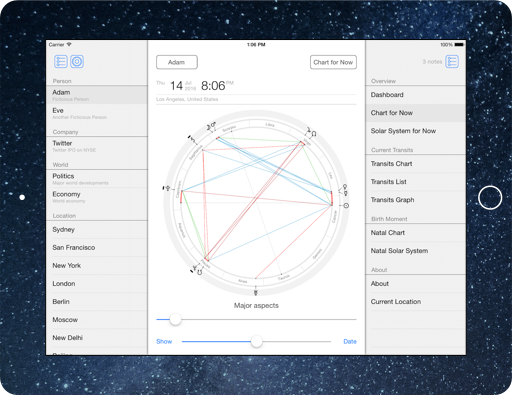
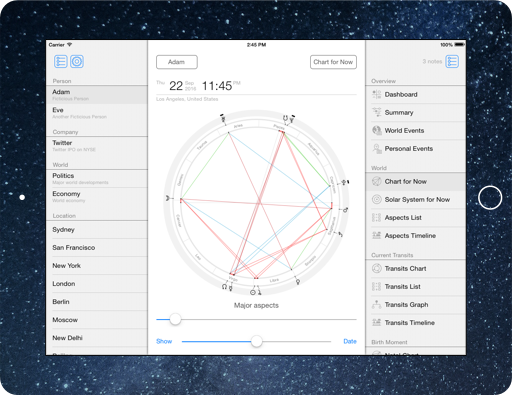
Updated for version 1.3

diff --git a/p01 time-nomad.md b/p01 time-nomad.md
@@ -9,7 +9,7 @@ appname: time-nomad/id1092841332?mt=8
 
 # Time Nomad
 
-#### Explore astrology in clarity and style. Track your transits in real time.
+#### Explore astrology in clarity and style. Track transits in real time. See upcoming changes.
 
 Stay up to date with your astrological transits, phases of the Sun and the Moon, explore your natal chart and learn meanings of planetary forces and aspects. Information is presented in unadorned, concise yet expressive manner to help seeing a bigger picture.
 
@@ -17,6 +17,7 @@ Stay up to date with your astrological transits, phases of the Sun and the Moon,
 * Chart for here & now
 * Chart of transits
 * Natal chart
+* Events timeline 
 * Explanation of aspects and forces
 * Library of trackers
 
@@ -42,6 +43,7 @@ General overview:
 * Sun rise & set, day duration
 * Progression of the sun from equinox to equinox
 * Phase of the Moon
+* Retrograde planets
 
 Person specific information:
 
@@ -59,6 +61,19 @@ Real time chart that shows what is now and what is coming up:
 * Configurable view
 * Time scrolling by specified interval
 * Easy aspects filtering
+
+### Aspect list for the chart 
+
+- - -
+
+![Time Nomad chart for now](/images/time-nomad_aspects-list.png "Time Nomad list of chart aspects")
+
+Real time chart that shows what is now and what is coming up:
+
+* Select aspect majority
+* Group by aspects or planets 
+* View cardinal points 
+* Raw angles view option 
 
 ### Solar System view
 
@@ -119,6 +134,45 @@ Natal chart, as well as any other chart, can be presented in a number of ways:
 * Include or exclude cardinal points
 * Tropical or sidereal zodiac wheel
 * Houses wheel
+
+### Aspects timeline
+
+- - -
+
+![Time Nomad aspects timeline](/images/time-nomad_aspects-timeline.png "Time Nomad aspects timeline")
+
+Timeline of aspects around given date:
+
+* For both aspects and transits 
+* Shows retrograde movements
+* Optional Moon display
+
+### Events timeline 
+
+- - -
+
+![Time Nomad events timeline](/images/time-nomad_world-events.png "Time Nomad events timeline")
+
+Timeline of world and personal events of interest around given date:
+
+* Equinoxes and solstices
+* Phases of the Moon
+* Retrograde movements of planets 
+* Solar return
+* Solar-lunar arc
+* Aspects and transits 
+
+### Events summary & notifications
+
+- - -
+
+![Time Nomad events summary](/images/time-nomad_events-summary.png "Time Nomad events summary")
+
+Date-based summary of upcoming and past events of significance:
+
+* Both world and personal events
+* Grouped by proximity to the current date 
+* Configurable daily system notifications
 
 ### Explanation of aspects and forces
 
